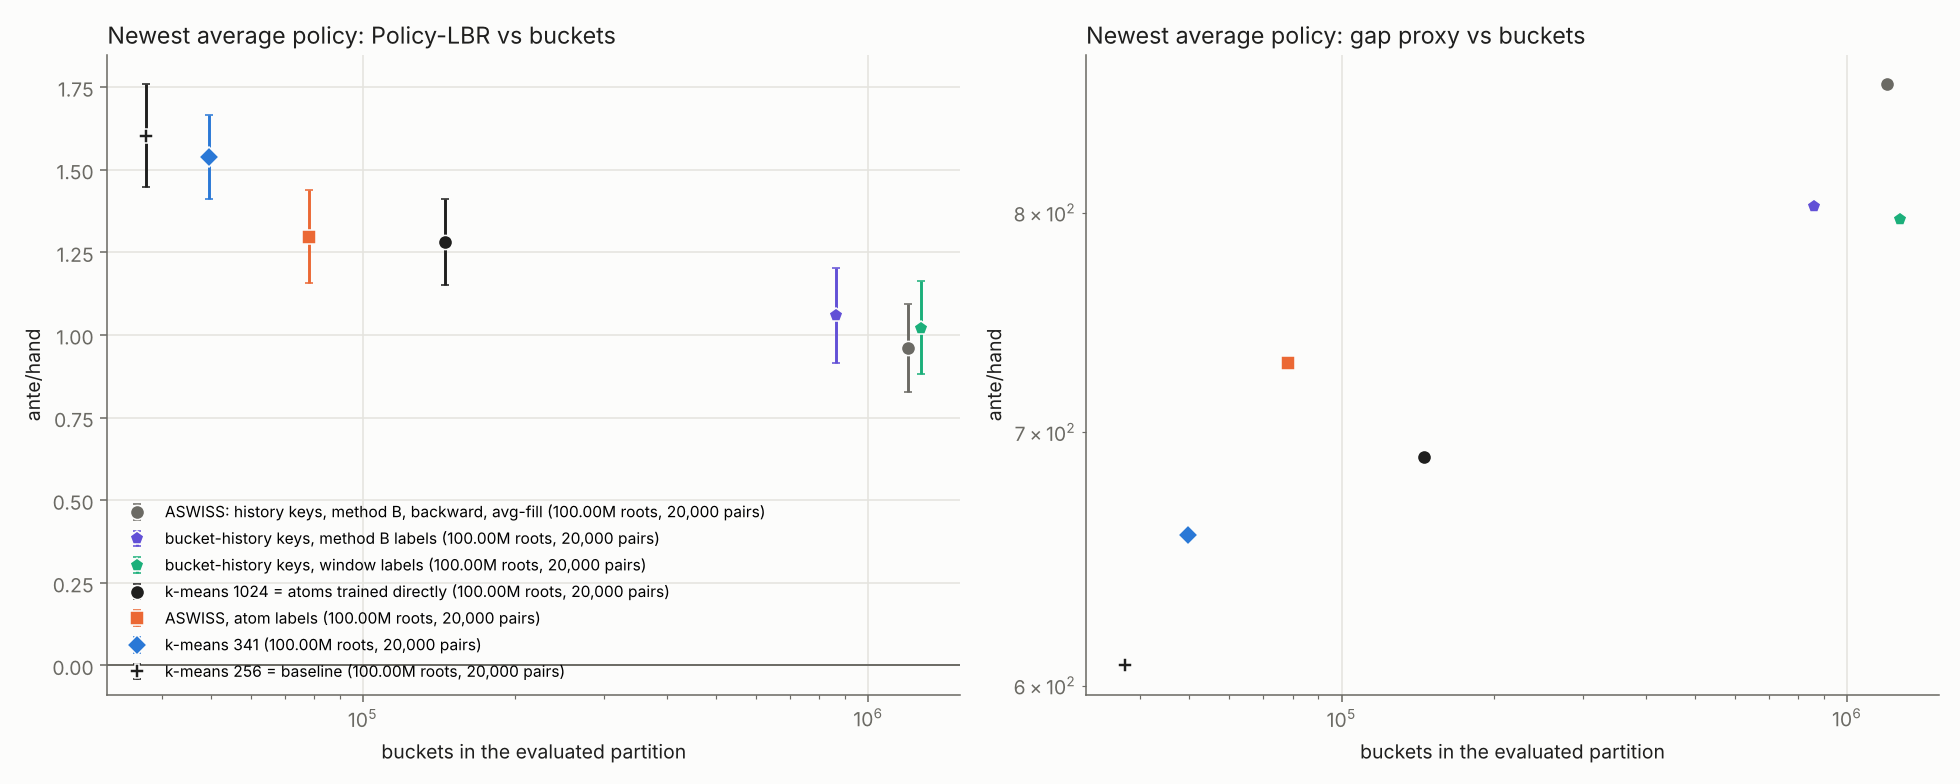
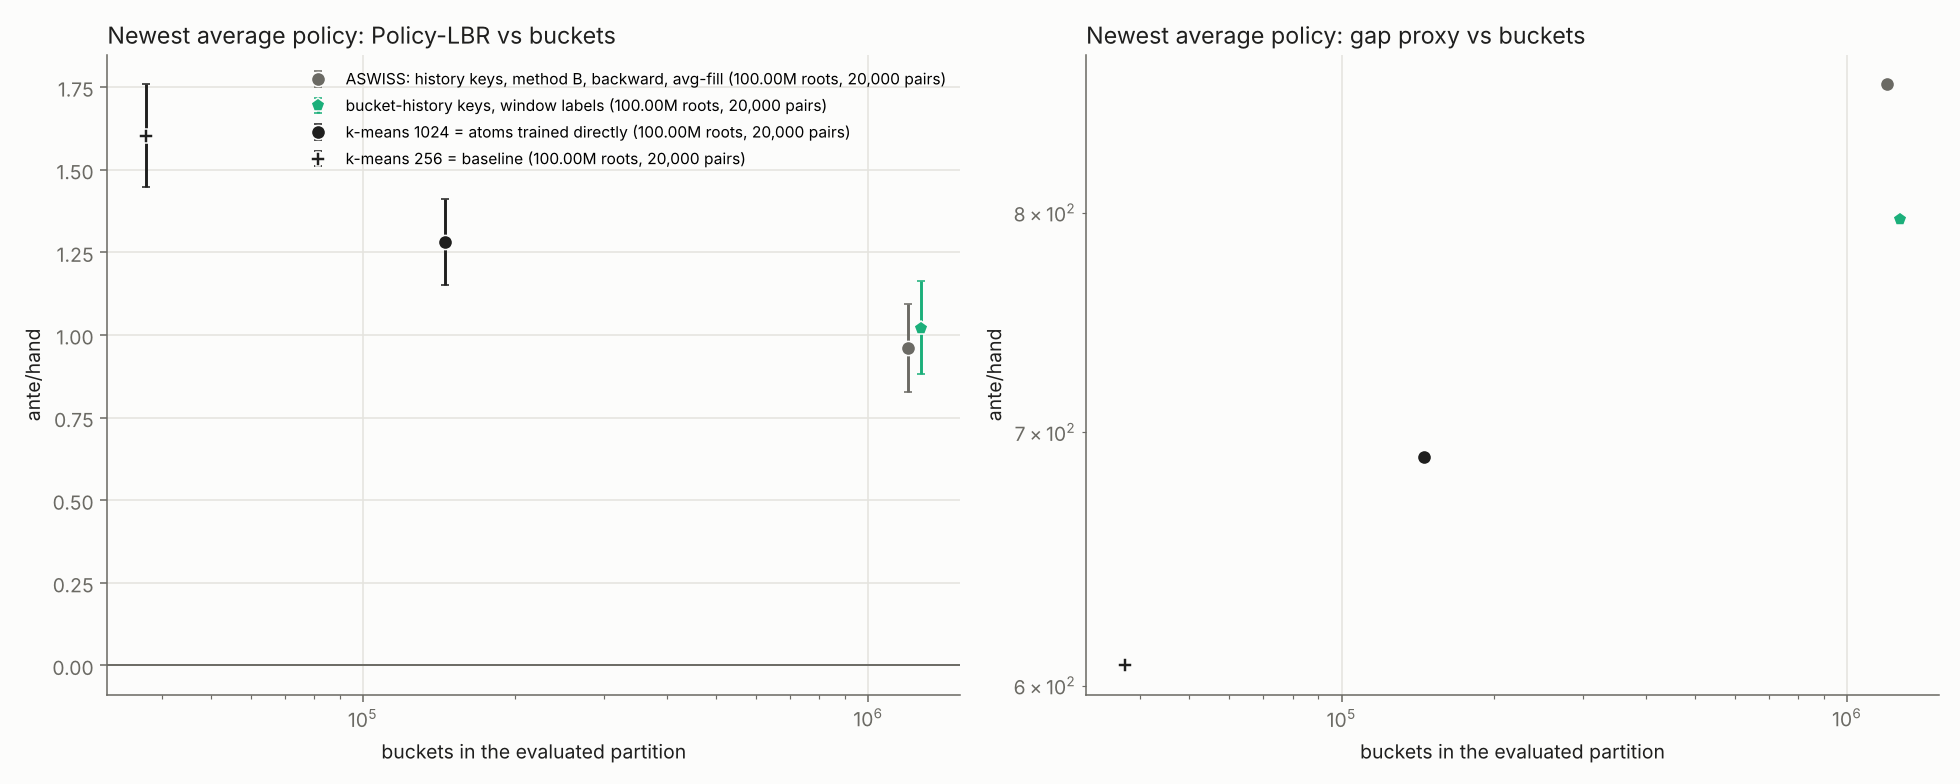
stud7: 100M figures with four arms (hist_bbf, hist, k-means 1024 and 256)
Drop hist_b, ASWISS atom labels and k-means 341 from the curve and time
figures for readability; the tables keep all seven arms. hist (window
labels, the label rule of the main method) is kept over hist_b, which it
cannot be told apart from at 100M (1.023 vs 1.060).

Claude-Session: https://claude.ai/code/session_01NttyhYFkEHhwUCcwRbsQVP

diff --git a/agents/adaptive_buckets/aswiss/stud7/README_KO.md b/agents/adaptive_buckets/aswiss/stud7/README_KO.md
@@ -704,11 +704,13 @@ python plot_gate.py runs3 runs_100m results_stud_gate_5m_seed1 --ungated "ASWISS
 | **− k-means 341** | **−0.578 [−0.750, −0.406]** | **−0.460 [−0.637, −0.283]** |
 | **− k-means 256** | **−0.641 [−0.835, −0.448]** | **−0.567 [−0.747, −0.386]** |
 
-![100M: hist_bbf와 기존 비교군의 학습 곡선(epoch 끝), k-means 256 대비 차이, bucket 수](results_stud_100m_bbf_seed1_curves.png)
+그림에는 네 비교군만 남겼다(`hist_bbf`, `hist`, k-means 1024, 기준선 k-means 256). `hist_b`, ASWISS 원자, k-means 341은 읽기 쉽게 하려고 그림에서만 뺐고, 위 표에는 그대로 있다. `hist`와 `hist_b`는 구별되지 않으므로(1.023 대 1.060), 본문 방법(가)과 같은 구간 라벨인 `hist`를 남겼다.
+
+![100M: hist_bbf, hist, k-means 1024, k-means 256의 학습 곡선(epoch 끝), k-means 256 대비 차이, bucket 수](results_stud_100m_bbf_seed1_curves.png)
 
 ![100M: 마지막 평균 정책의 LBR과 BR-gap 근사치 대 bucket 수](results_stud_100m_bbf_seed1_frontier.png)
 
-원자료: `results_data/runs_100m_s1_summaries.tar.gz`(사용자가 2026-11-05에 올린 파일, 일곱 비교군). `python plot_stud.py runs_100m results_stud_100m_bbf_seed1 --epoch-only --baseline atom_k256_s1 --runs "history_bbf_street_s1:ASWISS: history keys, method B, backward, avg-fill" "history_b_street_s1:bucket-history keys, method B labels" "history_street_s1:bucket-history keys, window labels" "atom_k1024_s1:k-means 1024 = atoms trained directly" "aswiss_k1024_z2_s1:ASWISS, atom labels" "atom_k341_s1:k-means 341" "atom_k256_s1:k-means 256 = baseline"`로 다시 그린다.
+원자료: `results_data/runs_100m_s1_summaries.tar.gz`(사용자가 2026-11-05에 올린 파일, 일곱 비교군). `python plot_stud.py runs_100m results_stud_100m_bbf_seed1 --epoch-only --baseline atom_k256_s1 --runs "history_bbf_street_s1:ASWISS: history keys, method B, backward, avg-fill" "history_b_street_s1:bucket-history keys, method B labels" "history_street_s1:bucket-history keys, window labels" "atom_k1024_s1:k-means 1024 = atoms trained directly" "aswiss_k1024_z2_s1:ASWISS, atom labels" "atom_k341_s1:k-means 341" "atom_k256_s1:k-means 256 = baseline"`로 다시 그린다(그림의 네 비교군만 주려면 해당 `--runs` 항목만 남긴다).
 
 **해석** (seed 1 하나)
 1. **평균 정책 LBR은 이번 비교군 중 가장 낮지만, bucket 이력 두 비교군과는 구별되지 않는다.**
@@ -743,6 +745,8 @@ python plot_gate.py runs3 runs_100m results_stud_gate_5m_seed1 --ungated "ASWISS
 | k-means 256 (5개, 10-28) | 13.0 h | 3.5 h | 9.5 h | 32.0 s | 0.3 h |
 
 (`curve.csv` 마지막 행 기준이라 `log.csv`의 epoch 끝 시간과 조금 다르다. `hist_bbf`는 100M에서의 마지막 라벨 판정까지 넣으면 23.7 h다.)
+
+시간 그림도 같은 네 비교군이다(표는 일곱 개 모두).
 
 ![100M: LBR 대 학습 시간(원래 시간), roots 대 시간, 100만 roots당 시간](results_stud_100m_time_seed1.png)
 
